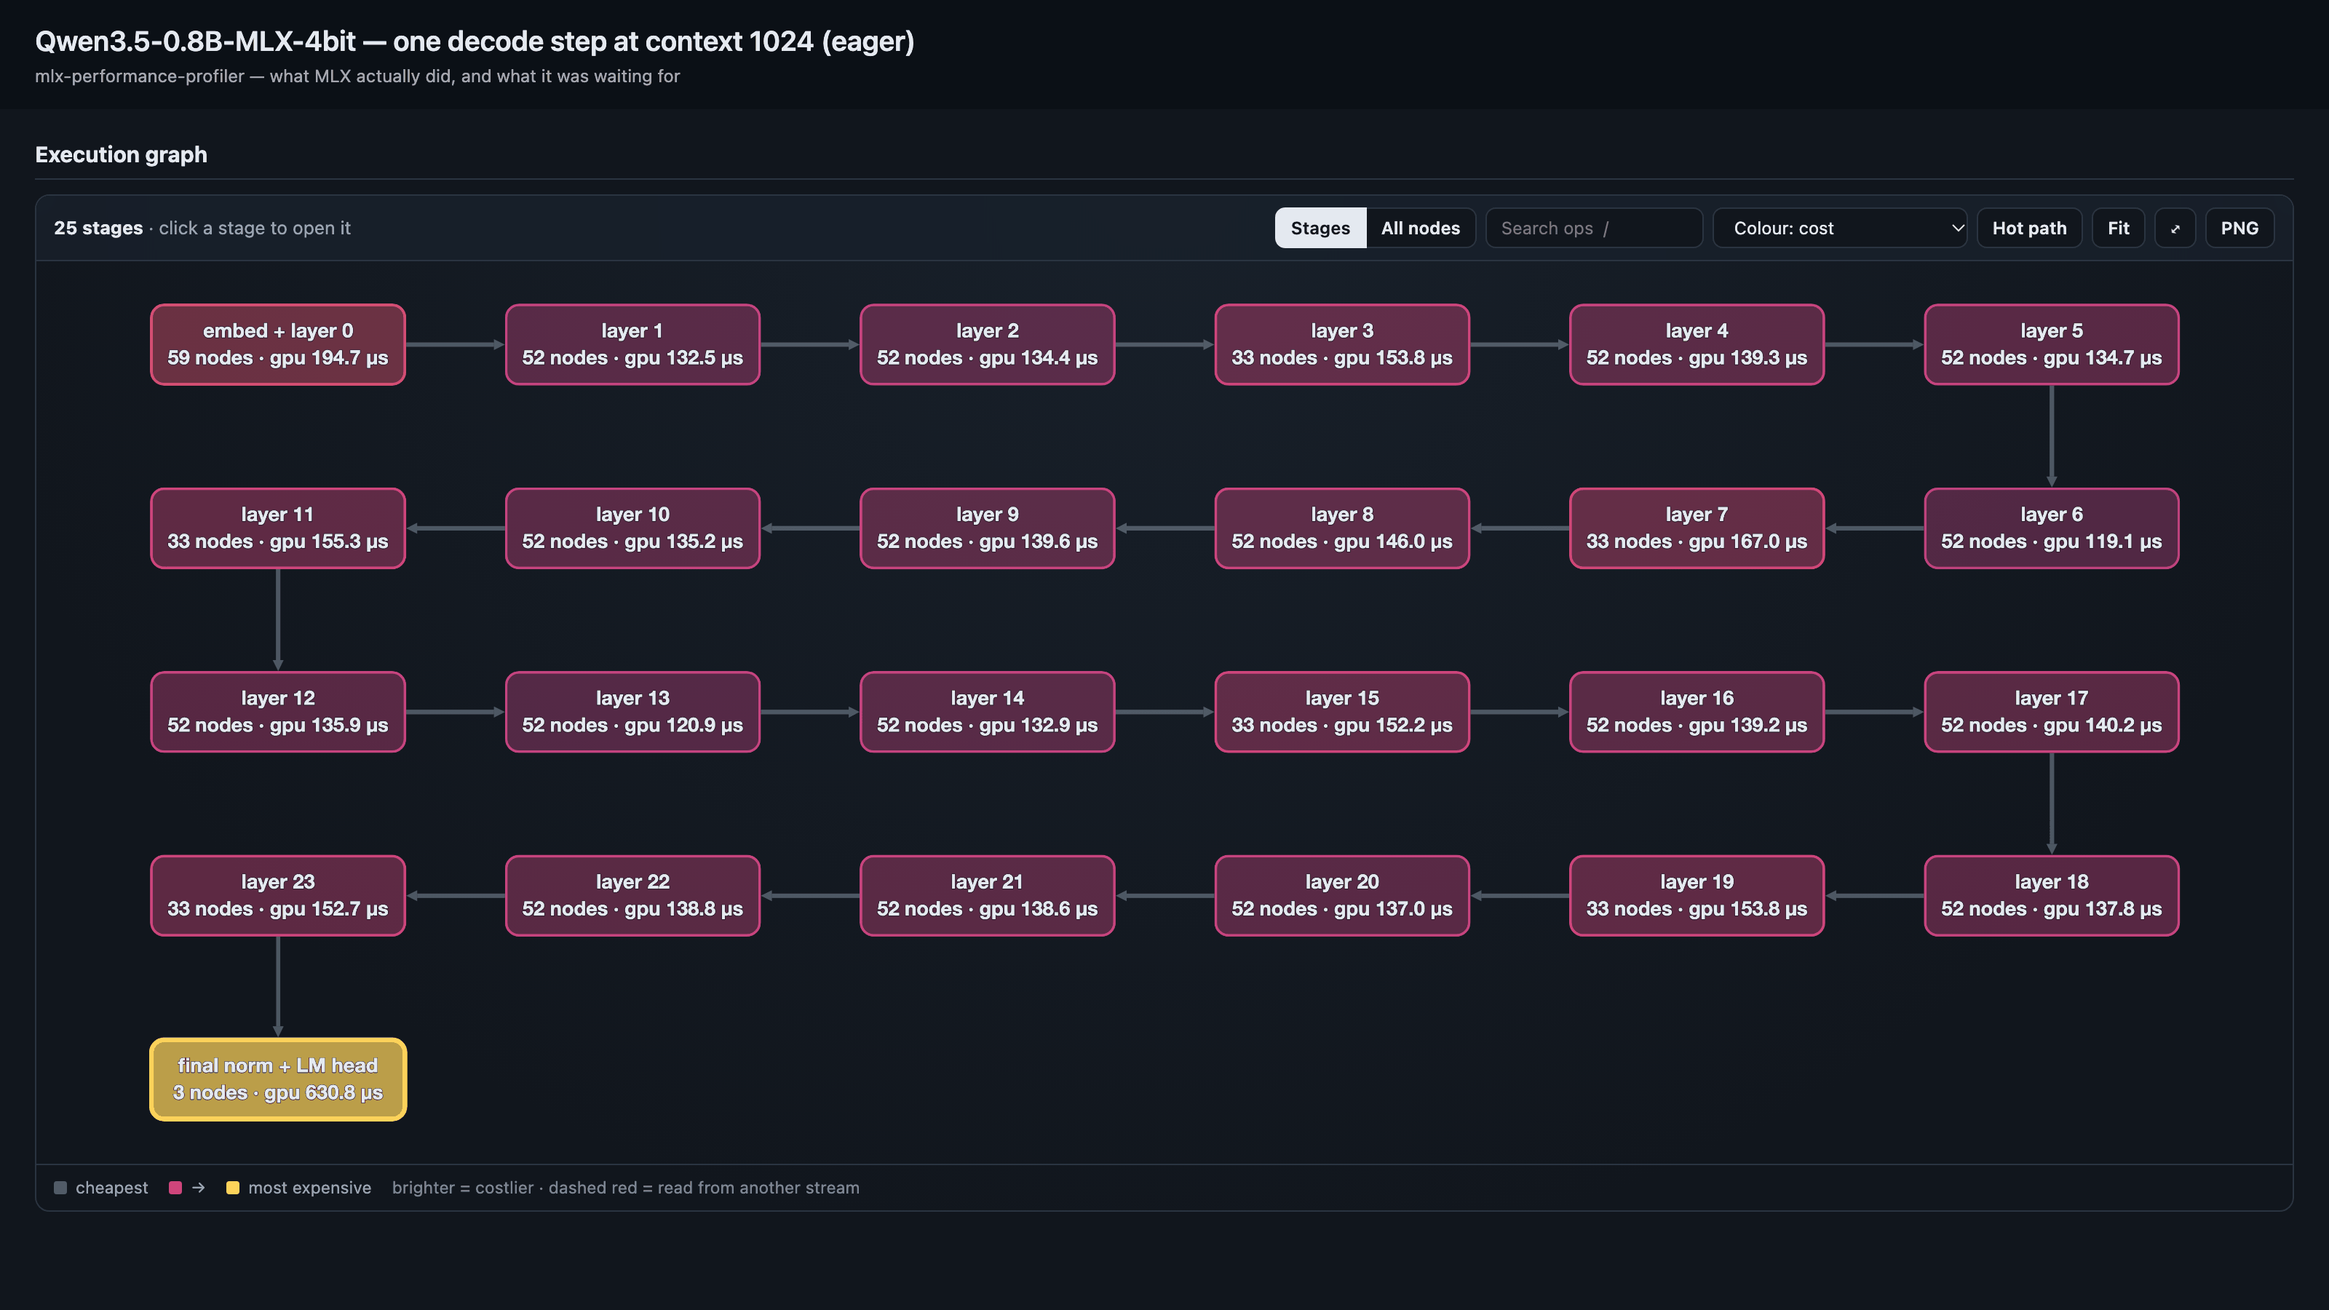
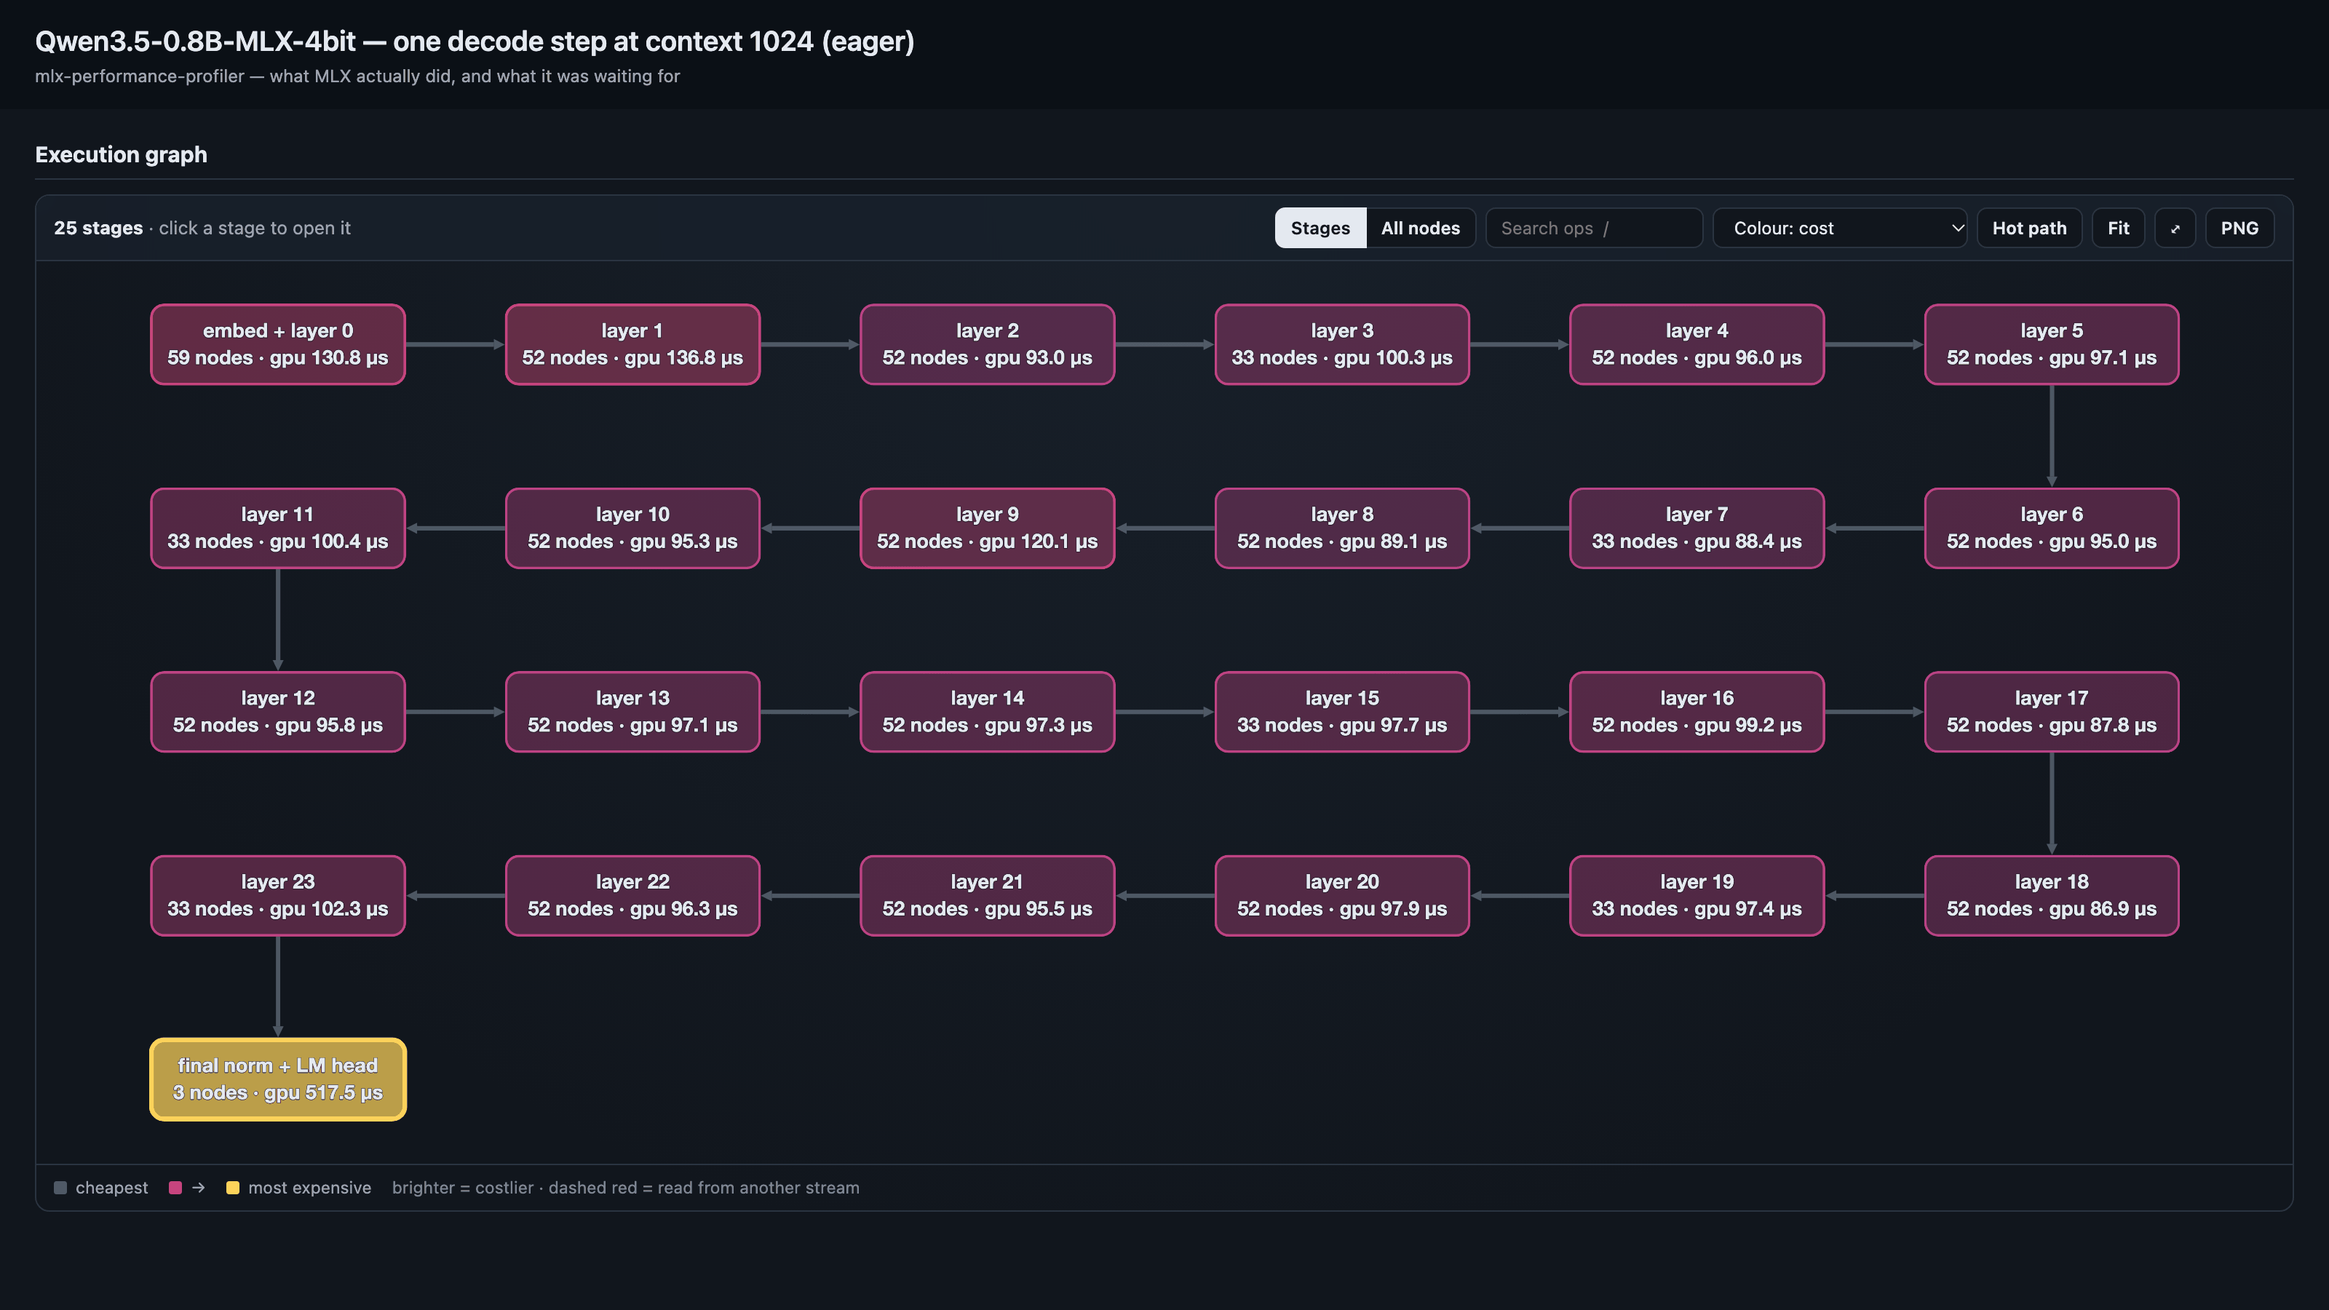
Release 0.3.0: interactive execution graph
- Version 0.3.0 (CMakeLists, package config comment, README pins, the
  source-consumer test); CHANGELOG entry with tested MLX releases.
- release-notes/v0.3.0.md, opening with the Qwen3.5 stage graph captured
  from this release's build (release-notes/media/v0.3.0-graph.png).
- README hero replaced with the same quiet-machine capture, caption
  numbers updated to match it.

diff --git a/release-notes/v0.3.0.md b/release-notes/v0.3.0.md
@@ -1,0 +1,151 @@
+# mlx-performance-profiler 0.3.0: explore what MLX ran, in an interactive graph
+
+![A Qwen3.5 decode step as 25 stages coloured by cost: 24 decoder layers at 87 to 137 µs each, and the LM head, glowing gold, at 517.5 µs, the most expensive stage by about five times.](https://raw.githubusercontent.com/aosama/mlx-performance-profiler/v0.3.0/release-notes/media/v0.3.0-graph.png)
+
+*Drawn by the profiler itself: the execution graph of a 0.3.0 report for one Qwen3.5-0.8B (4-bit) decode step at context 1024, coloured by cost. Each tile is a stage timed on the GPU; the LM head (517.5 µs, gold) costs about 5× a median decoder layer (97.1 µs). Click a tile in the report to open its operations. One run on one Mac.*
+
+Every report now opens its execution graph as something you can explore, not a static picture you squint at. Each operation MLX ran is coloured by where its time went and glows brighter the more it cost. Hover any node for its timing breakdown, click it to trace everything upstream and downstream, or press **Hot path** to light up the most expensive dependency chain. A real model opens as its layers: Qwen3.5's decode step shows as 25 stages you can drill into, where the old drawing was 1,144 boxes too small to read. Graphviz is no longer needed, and every report is still one HTML file that works offline.
+
+## Highlights
+
+**Explore the graph instead of squinting at it (#30, #31).** The execution graph used to be a Graphviz drawing: fine for a toy job, unreadable for a model. It is now an interactive view built on [Cytoscape.js](https://js.cytoscape.org/). Each node is coloured by its dominant latency slice, in the same colours as the timeline (green compute, red stalled on another stream, amber GPU scheduling, blue queued), and its fill strength grows with its cost. Hover shows the node's op, kernel, shape, bytes, stream and six-slice bar; click dims everything except what feeds it and what it feeds; search finds an op or kernel by name; a toolbar switches colours to cost or stream, goes full screen, or downloads the whole graph as a PNG.
+
+**See the most expensive chain at a glance (#30).** **Hot path** highlights the longest chain by cost through the graph, end to end, and says how much it adds up to. Inside one Qwen3.5 decoder layer it traces the attention path, from RMSNorm through QuantizedMatmul and RoPE into ScaledDotProductAttention.
+
+**Big models open as stages (#30).** A stage-timed job, such as a decoder timed one layer at a time, opens on its stages. A simple chain of stages is laid out as a snake that fills the screen, so all 25 Qwen3.5 stages fit at a readable size. Click a stage to open its operations, with its neighbouring stages shown as dashed tiles marking where data comes in and goes out; **All nodes** lays out the whole graph on request.
+
+**Nothing extra to install, and the picture matches the data (#30).** The graph view reads the same measurement document the profiler writes to disk (schema version 1, from #11), so the graph and the JSON file show the same numbers by construction. Graphviz is no longer used, so reports look the same on every machine.
+
+## Get started
+
+**From source with CMake FetchContent:**
+
+```cmake
+include(FetchContent)
+FetchContent_Declare(mlx_perf
+  GIT_REPOSITORY https://github.com/aosama/mlx-performance-profiler.git
+  GIT_TAG v0.3.0)
+FetchContent_MakeAvailable(mlx_perf)   # with -DMLX_PREFIX=... on your command line
+target_link_libraries(my_test PRIVATE mlx_perf::mlx_perf)
+```
+
+**As an installed package:**
+
+```sh
+git clone --branch v0.3.0 https://github.com/aosama/mlx-performance-profiler.git
+cd mlx-performance-profiler
+cmake -S . -B build -DMLX_PREFIX=/path/to/mlx/prefix \
+      -DMLX_PERF_BUILD_TOOLS=OFF -DMLX_PERF_BUILD_TESTS=OFF
+cmake --build build
+cmake --install build --prefix /path/to/install
+```
+
+```cmake
+# In the consumer: cmake -DMLX_PREFIX=... -DCMAKE_PREFIX_PATH=/path/to/install
+find_package(mlx_perf 0.3 REQUIRED)
+target_link_libraries(my_test PRIVATE mlx_perf::mlx_perf)
+```
+
+`MLX_PREFIX` points at a prebuilt MLX of a tested release (0.32.4 or 0.32.5). An installed package accepts only the MLX release it was built against.
+
+**Pinning the source archive:**
+
+```sh
+curl -LO https://github.com/aosama/mlx-performance-profiler/releases/download/v0.3.0/mlx-performance-profiler-0.3.0.tar.gz
+curl -LO https://github.com/aosama/mlx-performance-profiler/releases/download/v0.3.0/mlx-performance-profiler-0.3.0.tar.gz.sha256
+shasum -a 256 -c mlx-performance-profiler-0.3.0.tar.gz.sha256
+```
+
+**See the graph:** build the tools (the default in this repository) and run the bundled demo, then open its report and scroll to **Execution graph**:
+
+```sh
+cmake -S . -B build -DMLX_PREFIX=/path/to/mlx/prefix && cmake --build build
+./build/hello_world          # writes build/hello_world.html and a report per variant
+open build/hello_world_eager.html
+```
+
+Any report from `mlx_perf_profile_to_report` or `mlx_perf_compare_to_report` has the same view; the comparison page shows both variants' graphs side by side.
+
+Full documentation at this tag: [Reading the report](https://github.com/aosama/mlx-performance-profiler/blob/v0.3.0/README.md#reading-the-report), [Use it from another build](https://github.com/aosama/mlx-performance-profiler/blob/v0.3.0/README.md#use-it-from-another-build).
+
+## What's new
+
+**Interactive execution graph (#30, #31).** Replaces the Graphviz DAG in every report and comparison page. Cytoscape.js 3.35.0 and cytoscape-dagre 4.1.0 (which bundles the dagre layered layout) are vendored in [`third_party/`](https://github.com/aosama/mlx-performance-profiler/blob/v0.3.0/third_party/README.md) with their MIT licences and SHA-256 checksums, and compiled into `libmlx_perf.a` at build time. The viewer itself is this project's own JavaScript in `src/graph_view/`. Each mounted view can also be driven from a page script (`mlxPerfGraphView.mountedViews[0].openStage(3)`, `setColourMode('heat')`, `showHotPath()`), which is how the release images are captured.
+
+**Release pages open with a picture the profiler drew (#31).** The in-repo `release-notes` skill now captures the opening image from the release's own build with `capture_report_visual.py`, which renders chosen sections of a real report in headless Chrome. The README opens with a gallery of real reports, and the 0.1.0 and 0.2.0 release pages now open with theirs.
+
+## Upgrading from 0.2.0
+
+1. Move version pins to 0.3: `find_package(mlx_perf 0.3 REQUIRED)` or `GIT_TAG v0.3.0`.
+2. Reports no longer write `<base>.svg`. If a script of yours reads that file, render `<base>.dot` with Graphviz yourself; the `.dot` file is still written.
+3. Graphviz can be uninstalled if nothing else needs it.
+
+Nothing else changes: the C API (functions, structs and their layouts), the measurement file and the comparison record (schema version 1), and every number the profiler measures are the same as in 0.2.0.
+
+## Compatibility
+
+- **MLX:** the declared tested releases are 0.32.4 and 0.32.5. This release's own test run used MLX 0.32.5; it was not re-run against 0.32.4, which continuous integration (#20) is meant to cover. Metal backend, macOS on Apple silicon.
+- **Browsers:** the report's graph needs JavaScript and a current browser; without JavaScript the rest of the report still reads, and the graph section says it needs JavaScript.
+- **Report size:** each report now carries about 0.5 MB of embedded libraries. Model reports get smaller (the Qwen3.5 eager report went from 3.0 MB to 1.7 MB, the comparison page from 4.5 MB to 2.5 MB, because the Graphviz SVG is gone); small reports get larger (the demo's eager report went from about 80 KB to about 600 KB).
+- **C API:** unchanged; nothing added or removed.
+- **File formats:** measurement file and comparison record, both `schema_version` 1, unchanged.
+- **Version promise:** under [`VERSIONING.md`](https://github.com/aosama/mlx-performance-profiler/blob/v0.3.0/VERSIONING.md), a change to the files a report writes is a minor release before 1.0. The installed package matches on the same minor version.
+
+## How this release was verified
+
+- **Tests:** 54 CTest tests, all passing on MLX 0.32.5 from this release's branch: unit, component, integration on the Metal GPU, acceptance and packaging. Compared with 0.2.0, the Graphviz renderer's test is gone and two are new: `graph_view_section_test` (escaping, element ids, load order, and a check that no embedded library contains `</script`) and a Node suite of 33 tests for the viewer's model, style and panels, run when Node is installed (#31). The packaging tests build, link and run a C consumer against the installed 0.3.0 package and through the FetchContent declaration above.
+- **In a browser:** the real `hello_world` and `qwen35_profile` reports were opened and exercised by hand: the stage overview, drilling into a layer, hover cards, the hot path, the side-by-side comparison, with no console errors (#31).
+- **Real model:** `qwen35_profile` on Qwen3.5-0.8B-MLX-4bit, built from this release, decoded " Paris" before profiling, then wrote the report in the image above. The same run measured compiled 6.2% faster than eager (196.1 µs of 3.14 ms, faster in 12 of 12 rounds).
+- **Reviews:** a code review of the pull request found three defects in the new code before it was released, all fixed in #31: a `<!--` followed by `<script` inside a kernel name could stop the page from parsing, one unreadable measurement document stopped every other graph on the page from appearing, and full screen left a stale hint behind.
+
+## Known limitations and what's next
+
+- macOS and Metal only.
+- The graph has no minimap, and "All nodes" on a model the size of Qwen3.5 (1,144 nodes) takes a moment to lay out; the stage view is the fast way in.
+- In a stage-timed report, a node's cost is its time run alone in the serial pass, not its share of the stage; the legend and the hover card say so.
+- Every report embeds its own copy of the libraries, so a folder of many small reports repeats about 0.5 MB each.
+- No continuous integration yet: the suite runs on a maintainer's machine before each tag.
+
+Open roadmap:
+
+- #20 Continuous integration: build and test against every tested MLX release
+- #15 Support Linux with MLX's CUDA backend
+- #14 Research: how should callers in C, C++, Swift, Python, Rust and Node use the profiler?
+
+## For agents
+
+```yaml
+release: 0.3.0
+tag: v0.3.0
+previous_release: 0.2.0
+repository: aosama/mlx-performance-profiler
+source_archive:
+  url: https://github.com/aosama/mlx-performance-profiler/releases/download/v0.3.0/mlx-performance-profiler-0.3.0.tar.gz
+  sha256_file: https://github.com/aosama/mlx-performance-profiler/releases/download/v0.3.0/mlx-performance-profiler-0.3.0.tar.gz.sha256
+cmake:
+  find_package: "find_package(mlx_perf 0.3 REQUIRED)"
+  target: mlx_perf::mlx_perf
+  requires: MLX_PREFIX pointing at a tested MLX release
+tested_mlx_releases: ["0.32.4", "0.32.5"]   # declared
+verified_on_mlx: ["0.32.5"]                 # this release's own test run
+platform: macOS, Apple silicon, Metal
+c_api:
+  header: include/mlx_perf/mlx_perf_c_api.h
+  added: []
+  structs_added: []
+  removed: []
+file_formats:
+  measurement_file_schema_version: 1
+  comparison_record_schema_version: 1
+report_files_removed: ["<base>.svg"]
+graph_view:
+  libraries: ["cytoscape 3.35.0 (MIT)", "cytoscape-dagre 4.1.0 (MIT, bundles dagre)"]
+  page_api: "window.mlxPerfGraphView.mountedViews[i]: openStage, showOverview, setColourMode, showHotPath, fit"
+shipped_issues: [30]
+opening_visual: https://raw.githubusercontent.com/aosama/mlx-performance-profiler/v0.3.0/release-notes/media/v0.3.0-graph.png
+docs:
+  readme: https://github.com/aosama/mlx-performance-profiler/blob/v0.3.0/README.md
+  changelog: https://github.com/aosama/mlx-performance-profiler/blob/v0.3.0/CHANGELOG.md
+```
+
+**Full changelog:** https://github.com/aosama/mlx-performance-profiler/compare/v0.2.0...v0.3.0

diff --git a/README.md b/README.md
@@ -2,9 +2,9 @@
 
 **X-ray vision for Apple MLX. See what the GPU actually did, and prove which version is faster.**
 
-![One Qwen3.5 decode step, profiled: 24 decoder layers in one view, coloured by cost. The LM head glows gold: the most expensive stage, costing as much as several decoder layers.](docs/images/graph-stages.png)
+![One Qwen3.5 decode step, profiled: 24 decoder layers in one view, coloured by cost. The LM head glows gold: the most expensive stage, at about 5× a median layer.](docs/images/graph-stages.png)
 
-*One decode step of Qwen3.5-0.8B (4-bit), profiled. Each tile is a decoder layer timed on the GPU, and the brighter the tile, the more it cost. The LM head at the end (gold) is the most expensive stage, costing as much as several decoder layers (about 5× a layer on a quiet machine; this capture ran beside other work, which stretched it to about 8×). Click any layer in the report to open its operations (up to 59 of them).*
+*One decode step of Qwen3.5-0.8B (4-bit), profiled. Each tile is a decoder layer timed on the GPU, and the brighter the tile, the more it cost. The LM head at the end (gold, 517.5 µs) is the most expensive stage, costing about 5× a median decoder layer (97.1 µs). Click any layer in the report to open its operations (up to 59 of them).*
 
 MLX is lazy: you describe a graph, and MLX decides what runs, on which stream, and when. This profiler shows you what it actually did, the way Apache Spark's Web UI shows a query. Every operation, every stream, and every microsecond is split into **computing** and **waiting**. The waiting is broken down further: on the host, behind earlier work on the same GPU stream, or on another stream's data.
 
@@ -88,7 +88,7 @@ cmake --install build --prefix /path/to/install
 
 ```cmake
 # In the consumer: cmake -DMLX_PREFIX=... -DCMAKE_PREFIX_PATH=/path/to/install
-find_package(mlx_perf 0.2 REQUIRED)
+find_package(mlx_perf 0.3 REQUIRED)
 target_link_libraries(my_test PRIVATE mlx_perf::mlx_perf)
 ```
 
@@ -103,7 +103,7 @@ report itself not found instead of stopping your configure.
 include(FetchContent)
 FetchContent_Declare(mlx_perf
   GIT_REPOSITORY https://github.com/aosama/mlx-performance-profiler.git
-  GIT_TAG v0.2.0)
+  GIT_TAG v0.3.0)
 FetchContent_MakeAvailable(mlx_perf)   # with -DMLX_PREFIX=... on your command line
 target_link_libraries(my_test PRIVATE mlx_perf::mlx_perf)
 ```

diff --git a/CHANGELOG.md b/CHANGELOG.md
@@ -3,7 +3,13 @@
 Versions follow [`VERSIONING.md`](VERSIONING.md). Each release lists the
 MLX releases it was built and tested against.
 
-## Unreleased
+## 0.3.0 (2026-11-26)
+
+Tested MLX releases: 0.32.4, 0.32.5 (Metal, macOS).
+
+A minor release under `VERSIONING.md`: the C API and the measurement file
+are unchanged, and reports no longer need Graphviz or write an `.svg`.
+Consumers pinning `0.2` move to `find_package(mlx_perf 0.3)`.
 
 ### Added
 - **Interactive execution graph (#30).** The report's DAG is now an
@@ -15,6 +21,10 @@ MLX releases it was built and tested against.
   drill into each. Built on Cytoscape.js and dagre (MIT), vendored in
   `third_party/` and compiled into the library, so reports stay one offline
   HTML file. The view reads the measurement document (schema version 1).
+- **Release pages open with a picture the profiler drew.** The in-repo
+  `release-notes` skill captures it from the release's own build
+  (`capture_report_visual.py`); the README opens with a gallery of real
+  reports.
 
 ### Removed
 - **Graphviz.** Reports no longer run `dot` or write an `.svg`; the `.dot`
